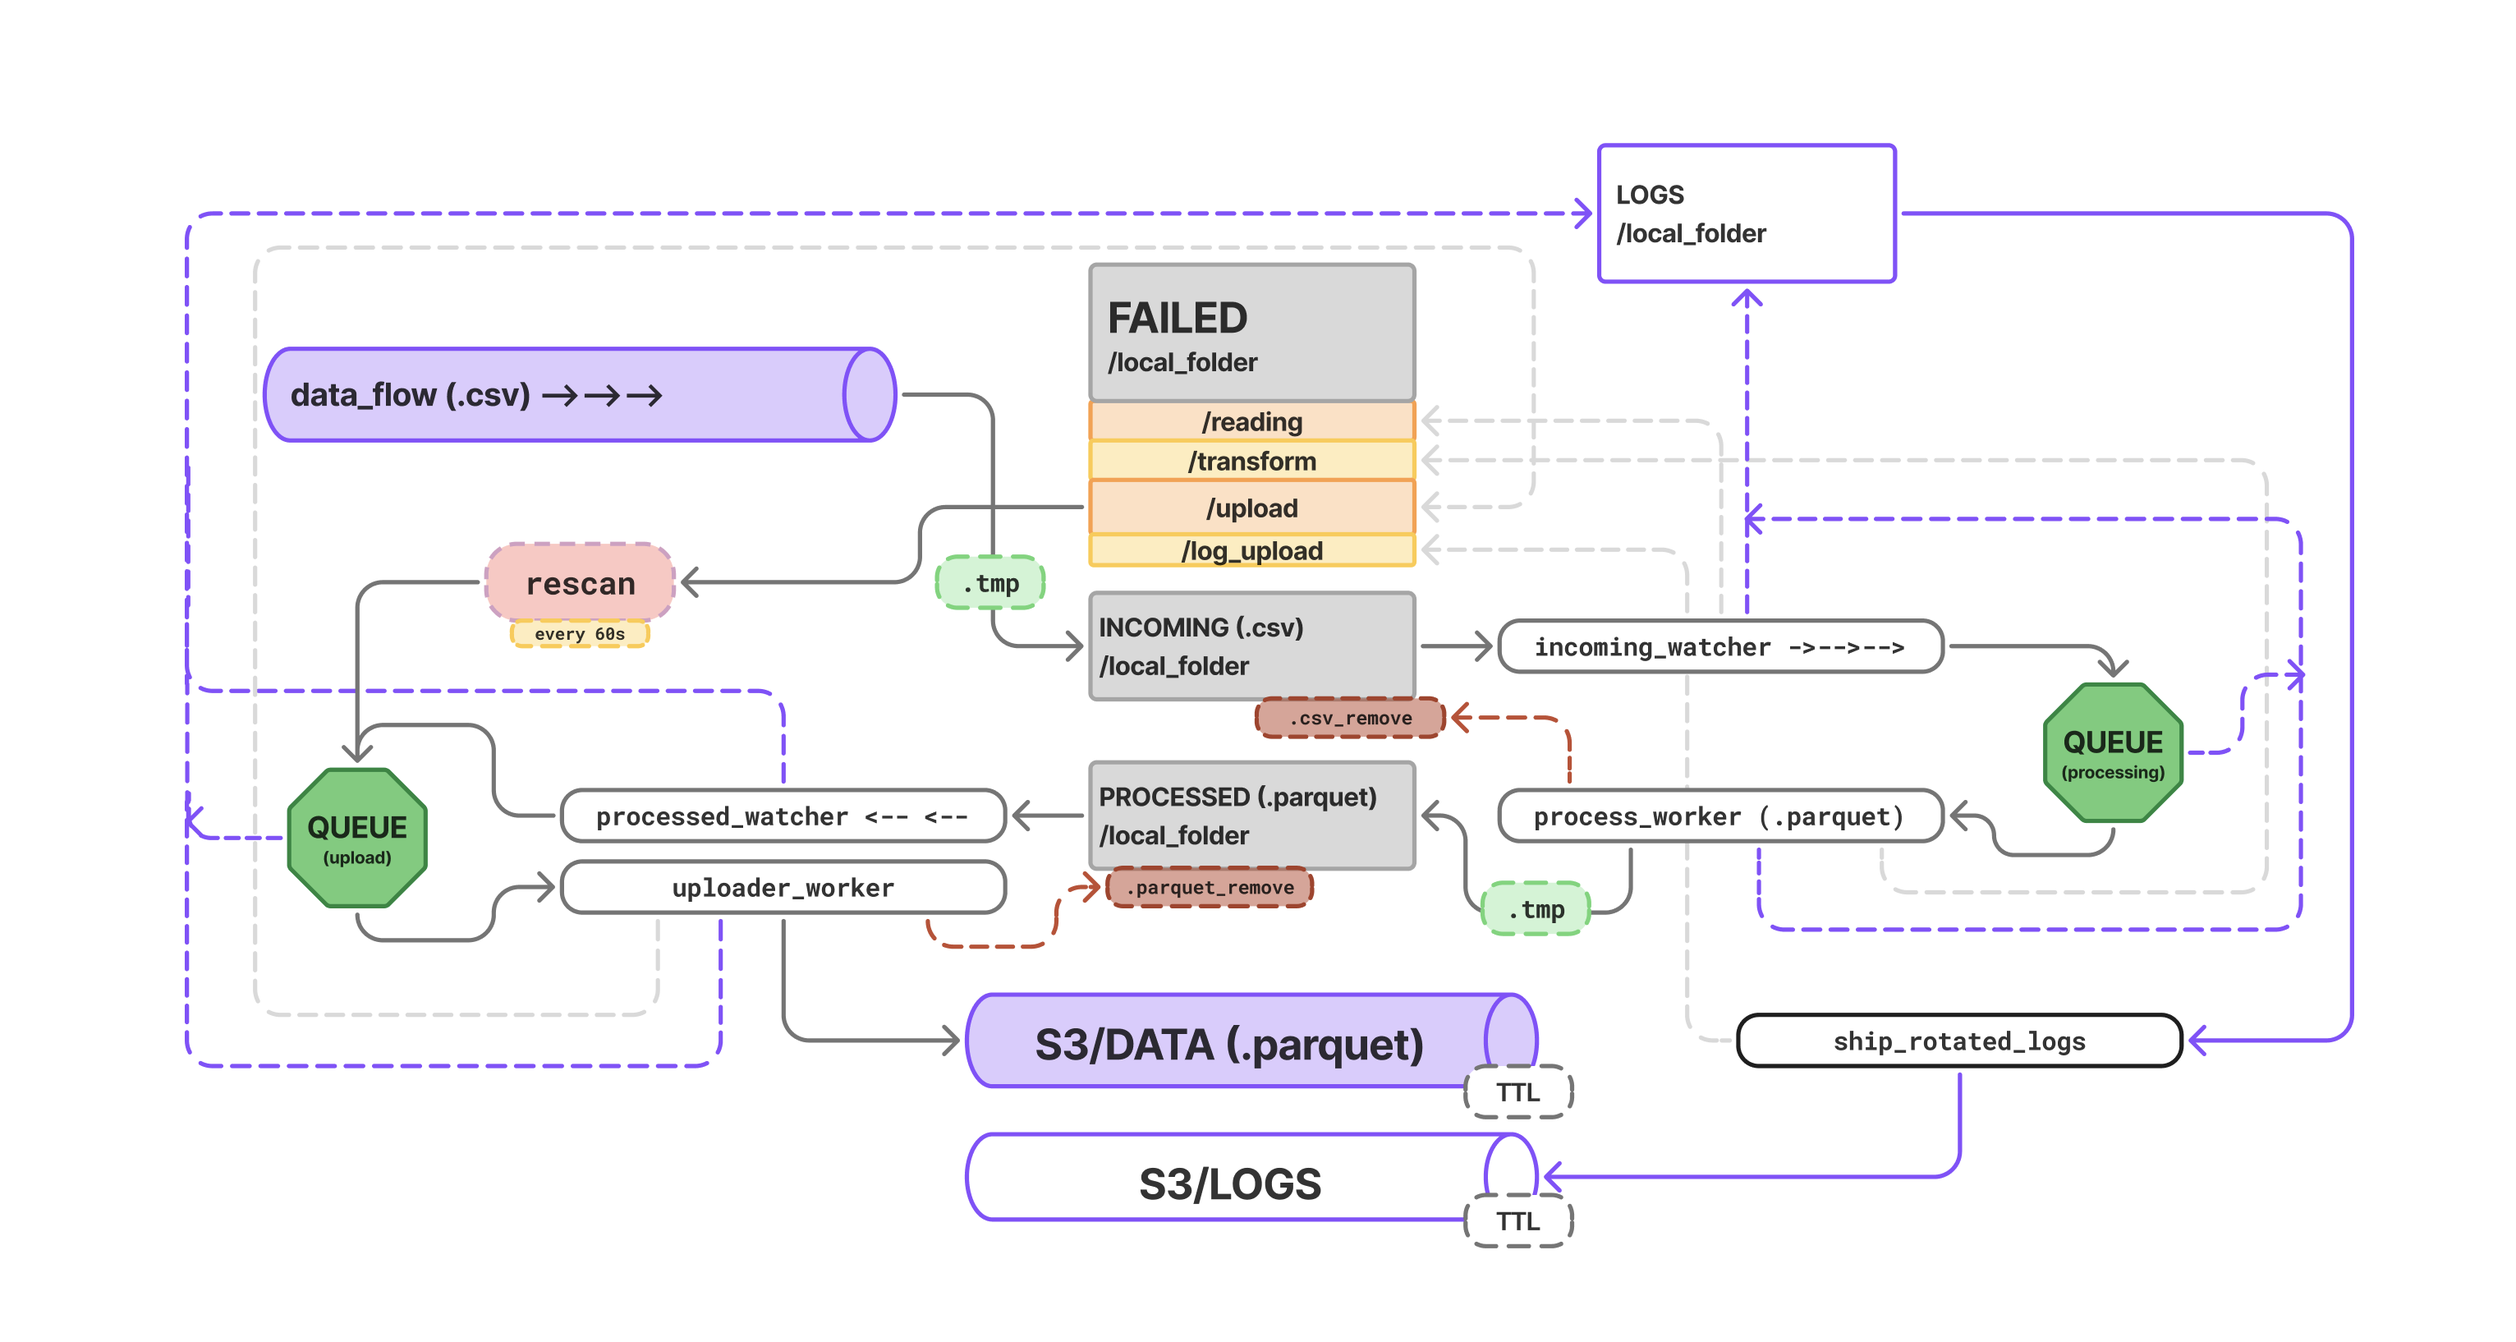
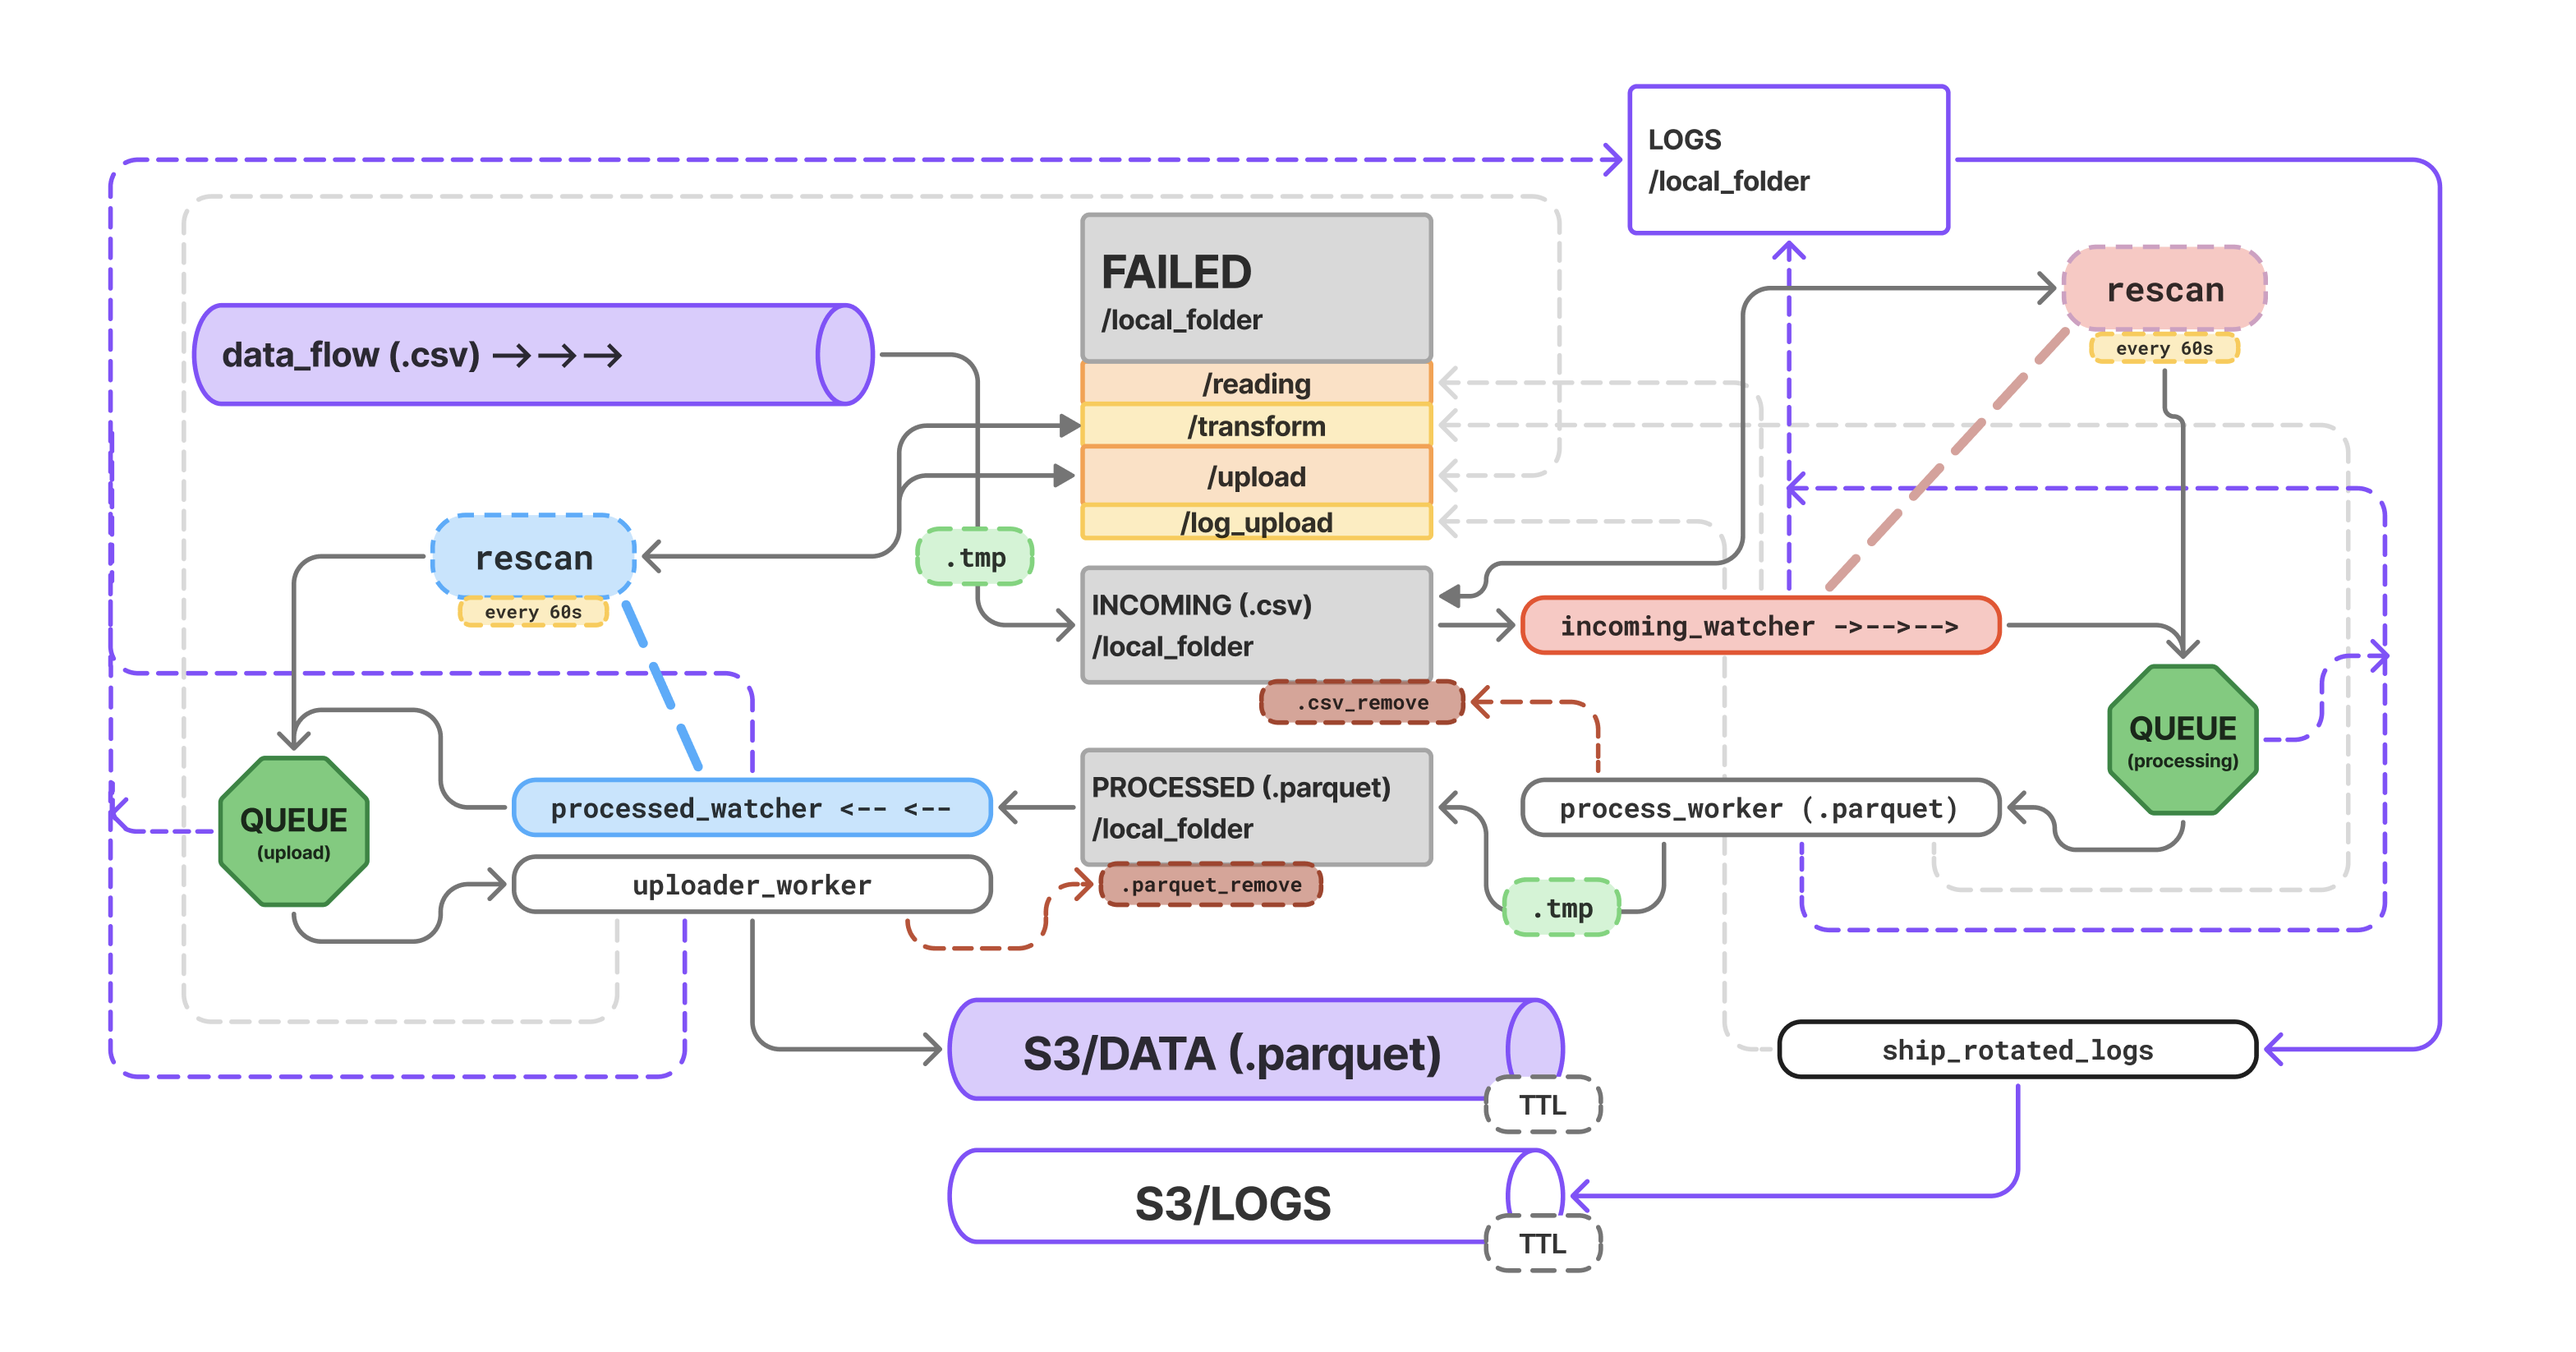
docs: README

diff --git a/synth_data/gen_synth_data.py b/synth_data/gen_synth_data.py
@@ -32,6 +32,8 @@ ROWS_PER_FILE = 500
 PRODUCT_IDS = ["P" + str(i).zfill(4) for i in range(1, 115)]
 
 def main():
+
+    os.makedirs(OUTPUT_DIR, exist_ok=True)
     filename = "payments_" + datetime.now(timezone.utc).strftime("%Y%m%d_%H%M%S") + ".csv"
     tmp_path = os.path.join(OUTPUT_DIR, "." + filename + ".tmp")
     final_path = os.path.join(OUTPUT_DIR, filename)
@@ -71,15 +73,7 @@ def main():
             else:
                 user_id = ""
 
-            amount_value = round(random.uniform(-25, 3000), 2)
-            amount_case = random.choice(["number", "string", "comma"])
-
-            if amount_case == "string":
-                amount = " " + str(amount_value) + " "
-            elif amount_case == "comma":
-                amount = str(amount_value).replace(".", ",")
-            else:
-                amount = amount_value
+            amount = round(random.uniform(-25, 3000), 2)
 
             currency = random.choice(CURRENCY_VARIANTS)
             status = random.choice(STATUS_VARIANTS)

diff --git a/logging_config.py b/logging_config.py
@@ -19,7 +19,7 @@ def setup_logger(name):
 
     file_handler = RotatingFileHandler(
         os.path.join(LOG_DIR, LOG_FILE),
-        maxBytes=25_000_000,
+        maxBytes=5_000_000,
         backupCount=5,
     )
     file_handler.setFormatter(formatter)

diff --git a/README.md b/README.md
@@ -1,13 +1,285 @@
-# Automated Dropzone Ingestion
-This project provides a template for local data cleaning, validation, and delivery to Amazon S3
+# 🌀 Automated Dropzone Ingestion
+### This project provides a reusable template for automated, local-first data processing and delivery to Amazon S3, with multi-stage logging and support for both local execution and Docker-based runs.
 
-![Architecture diagram](pics/dropzone_ingestion_schema1.png)
+![Architecture diagram](pics/dropzone_ingestion_schema.png)
 
 ## Project Features
 
 - CSV → Parquet transformation (customizable)
-- Synthetic data generator for testing -- `gen_synth_data.py`
+- Synthetic data generator for testing
 - Local raw / processed data layers
 - Two-queue architecture: processing queue and upload queue
+- File system–based ingestion with event-driven detection
+- Safe file ingestion via temporary `.tmp` files to prevent reading partially written files
 - Failure handling with local persistence in failed/
-- Rescan and retry logic for failed S3 uploads
+- Rescan-based reconciliation for incoming data and failed S3 uploads
+- Layered logging architecture with dedicated loggers:
+  - `dropzone.reading` — file ingestion and filesystem events
+  - `dropzone.processing` — CSV validation, transformation, and Parquet generation
+  - `dropzone.uploader` — S3 upload lifecycle, retries, and failure handling
+
+# Project Structure 📁
+```text
+automated-dropzone-ingestion/
+├── aws/
+│   └── s3_utils.py                 # S3 key generation and upload logic (keys, partitions)
+
+├── incoming_watcher/
+│   ├── watcher.py                  # Filesystem watcher (incoming files)
+│   └── process_worker.py           # Processing + rescan (CSV → DataFrame → Parquet)
+
+├── s3_upload/
+│   ├── s3_parquet_uploader.py      # Processed Parquet watcher + thread startup
+│   └── uploader_worker.py          # Upload queue, workers, and rescan logic
+
+├── log_shipper/
+│   └── log_shipper.py              # Log discovery and upload to S3
+
+├── synth_data/
+│   ├── gen_synth_data.py           # Synthetic CSV generator (test-only)
+│   └── values.py                   # Reference values for synthetic data
+
+├── utils/
+│   └── queue_utils.py              # Shared queue utilities
+
+├── file_storage/
+│   ├── incoming/                   # Incoming raw CSV files
+│   ├── processed/                  # Generated Parquet files
+│   ├── failed/                     # Failed files by stage
+│   │   ├── read/
+│   │   ├── transform/
+│   │   └── upload/
+│   └── failed_logs/                # Failed log upload artifacts
+
+├── logging_config.py               # Logging setup and rotation
+├── docker-compose.yml              # Multi-container local pipeline
+├── Dockerfile
+├── requirements.txt
+├── .env
+├── .env.docker
+├── .gitignore
+├── .dockerignore
+└── README.md
+```
+
+# How to test 👶
+
+```
+git clone https://github.com/yanashcherbakova/automated-dropzone-ingestion.git
+cd automated-dropzone-ingestion
+```
+
+## Option A --> Run with Docker Compose 🐳
+
+1. Create `.env.docker`
+
+```
+AWS_REGION=(us-east-1)
+S3_BUCKET=(your-bucket)
+S3_PREFIX=(data)
+
+INCOMING_DIR=/app/file_storage/incoming
+PROCESSED_DIR=/app/file_storage/processed
+
+FAILED_DIR_READ=/app/file_storage/failed/read
+FAILED_DIR_TRANSFORM=/app/file_storage/failed/transform
+FAILED_DIR_UPLOAD=/app/file_storage/failed/upload
+
+WATCHDOG_POLLING=1
+```
+2. `docker compose up --build`
+
+This command starts three Docker containers, each running a dedicated Python service:
+- **CSV generator (test-only)**
+    - Generates synthetic transaction CSV files and drops them into the incoming folder.
+    - This container exists only to validate that the end-to-end pipeline works.
+- **Processor**
+    - Watches the incoming folder, loads CSV files into `pandas DataFrames`, performs cleaning and validation, converts them to Parquet, stores them in the processing directory, and removes the original CSV files.
+- **Uploader**
+    - Detects newly created `Parquet files`, enqueues them, and uploads them to `Amazon S3` using the configured bucket and prefix.
+
+![Docker](pics/docker_up.png)
+3. Follow logs
+```
+docker compose logs -f processor
+docker compose logs -f uploader
+```
+![Docker](pics/processor_logs.png)
+![Docker](pics/uploader_logs.png)
+
+## Option B --> Run locally (no Docker)
+
+1. Create and activate venv
+```
+python3 -m venv .venv
+source .venv/bin/activate
+pip install -r requirements.txt
+```
+2. Create `.env`
+```
+AWS_REGION=(us-east-1)
+S3_BUCKET=(your-bucket)
+S3_PREFIX=(data)
+
+INCOMING_DIR=./file_storage/incoming
+PROCESSED_DIR=./file_storage/processed
+
+FAILED_DIR_READ=./file_storage/failed/read
+FAILED_DIR_TRANSFORM=./file_storage/failed/transform
+FAILED_DIR_UPLOAD=./file_storage/failed/upload
+
+WATCHDOG_POLLING=0
+```
+3. Start services (3 terminals)
+- **Terminal 1 - generator *(optional)***
+    - `python3 -m synth_data.gen_synth_data`
+- **Terminal 2 - processor**
+    - `python3 -m incoming_watcher.watcher`
+- **Terminal 3 - uploader**
+    - `python3 -m s3_upload.s3_parquet_uploader`
+
+4. Validate
+- A new CSV should appear in `file_storage/incoming/`
+- Processor should create Parquet in `file_storage/processed/`
+- Uploader should upload Parquet to S3 and then remove it locally (or move to `failed/upload` on errors)
+
+Logs example / Generator
+
+![Local](pics/local_logs_generator.png)
+
+Logs example / Processor
+
+![Local](pics/local_logs_process.png)
+
+### Finally
+
+### 🧩 Check S3 Bucket:
+
+![Local](pics/s3.png)
+
+Each file follows the same end-to-end path through the pipeline.
+
+![Custom](pics/one_item_pipeline.png)
+
+Different processing stages can be identified by the **container names** that emit the logs.  
+The same separation is also visible in the unified log stream, which is grouped into three logical domains:
+
+- `dropzone.reading` — file ingestion and filesystem events
+- `dropzone.processing` — CSV validation, transformation, and Parquet generation
+- `dropzone.uploader` — S3 upload lifecycle, retries, and failure handling
+
+# Fast customization 🏂 What to customize?
+
+![Custom](pics/custom/custom.png)
+
+## 1. Data Flow (Data Source)
+
+![Custom](pics/custom/custom_data_flow.png)
+
+- This project generates a **synthetic transaction table** used to simulate a real data flow.
+- In a production pipeline, this component would be replaced by an actual data source (for example, an upstream service, external provider, or ingestion endpoint).
+
+![Custom](pics/custom/test_csv.png)
+
+The data is delivered in **CSV format**.
+
+### 🧩 Check: `incoming_watcher/watcher.py`
+
+**❗Important:** at the moment, the pipeline ingests data from CSV and loads it into a pandas DataFrame. All downstream processing (validation, cleaning, transformations) is implemented at the DataFrame level.
+
+If a different input format is required (e.g. Parquet, JSON, Avro), the downstream processing logic must be adapted accordingly, rather than only swapping the input file.
+
+## 2. Process worker
+
+![Custom](pics/custom/custom_process_worker.png)
+
+As described earlier, incoming CSV files are loaded into pandas DataFrames, then passed through cleaning and validation steps, for example:
+
+- column name normalization
+- standardizing currency codes / payment method names
+- basic sanity checks (nulls, types, ranges, etc.)
+
+The resulting DataFrame is then written to Parquet and moved to: `folder_sorage/processing`
+
+### 🧩 Check: `incoming_watcher/process_worker.py`
+
+### Customizing the processing logic
+
+You can fully replace the processing logic inside: `def process_file(file_path):`
+
+**❗Important:** downstream components detect and enqueue Parquet files from the processing folder.
+If you change where Parquet files are written, their naming, or their schema, review the downstream logic here:
+
+- `s3_upload/s3_parquet_uploader.py`
+- `s3_upload/uploader_worker.py`
+
+### Customizing S3 key / partitioning
+
+![custom](pics/custom/default_key.png)
+
+S3 object naming and partitioning is defined in: 
+- `aws/s3_utils.py` (s3_key)
+
+Current partitioning format: **year=YYYY/month=MM/day=DD**
+
+## 3. LOGS
+![Custom](pics/custom/custom_logs.png)
+
+### 🧩 Check: 
+- `logging_config.py`
+    - change log rotation settings (max size / number of backups)
+    - adjust log format (timestamps, logger name, level, message)
+- `incoming_watcher/watcher.py`
+    - starts a background thread responsible for shipping logs to S3
+- `log_shipper/log_shipper.py`
+    - implements the actual log shipping logic
+
+## Rescan cases
+
+### Case 1 - Files stuck in the incoming folder 📥⏸
+
+In this test scenario, a batch of CSV files remains unprocessed in the incoming folder.
+
+This can happen in the following situations:
+- ⏳ The data source delivered files while the processor container (or the processor script in local mode) was not running
+- 🐳 In a Docker setup, the data-producing container started earlier than the processor
+(`depends_on` in Docker Compose helps with startup order but doesn`t provide a strict guarantee)
+- 👀 The filesystem watcher missed the file creation event
+
+As a result, files remain unnoticed in the incoming directory:
+
+![rescan](pics/rescan/stack_in_incoming.png)
+
+To handle this, a **periodic rescan** mechanism is used. 
+By default, **every 60 seconds**, the rescan checks the incoming folder and enqueues all eligible files. File validation and queue deduplication are handled inside:
+- `incoming_watcher/process_worker.py`
+
+This ensures that previously missed files are picked up and re-introduced into the pipeline
+
+In the logs, it is clearly visible that the file was enqueued by the rescan process, not by the watcher:
+
+![rescan](pics/rescan/incoming_rescan.png)
+
+### Case 2 - Network connectivity loss during S3 upload 🔌⬇
+
+Network outages are usually unpredictable.
+In this test case, the failure is intentionally reproduced to validate retry and rescan logic 🙂
+
+![rescan](pics/rescan/hihi.png)
+
+The S3 delivery logic performs multiple retry attempts.
+If all retries fail, the file is moved to:
+
+`file_storage/failed/upload`
+
+In this scenario, the folder contains **fully processed Parquet files** —
+i.e. files from the processed layer that were not delivered to S3:
+
+![rescan](pics/rescan/stack_in_failed_upload.png)
+
+The rescan mechanism periodically checks this directory and selects only Parquet files.
+These files are then enqueued for another upload attempt.
+
+Again, the logs explicitly indicate that the file was queued by the **rescan logic**:
+
+![rescan](pics/rescan/no_connection_logs.png)
